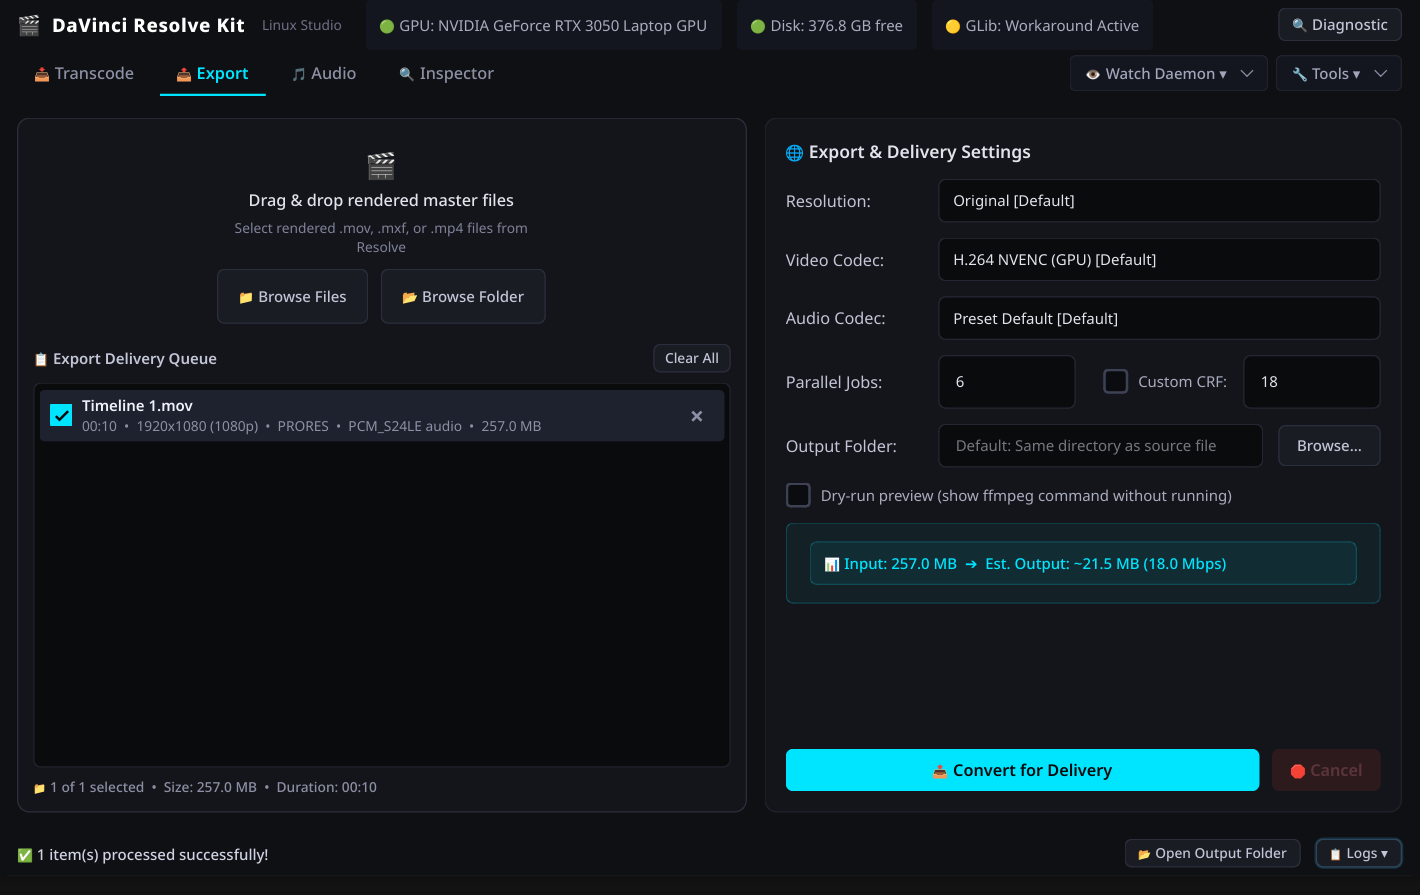
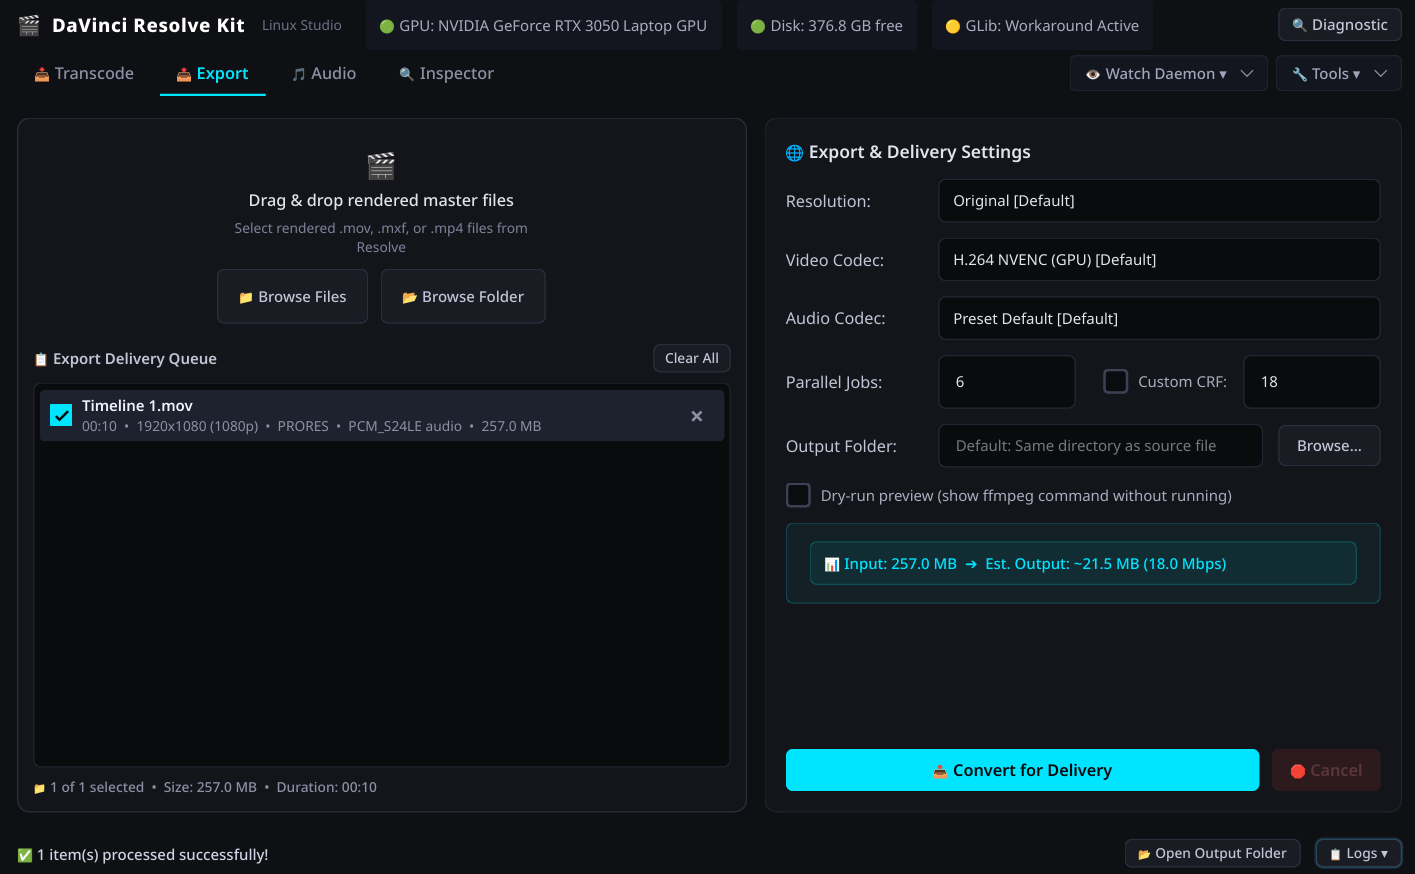
Crop screenshots to identical 1415x874, reduce README display to 700px

diff --git a/README.md b/README.md
@@ -20,11 +20,11 @@ DaVinci Resolve Free on Linux cannot import the most common phone/camera formats
 
 ## Screenshots
 
-![Transcode tab — batch convert footage for Resolve](assets/screenshots/transcode-tab.png)
+<img src="assets/screenshots/transcode-tab.png" width="700" alt="Transcode tab — batch convert footage for Resolve">
 
-![Inspector tab — check file compatibility with Resolve Free on Linux](assets/screenshots/inspector-tab.png)
+<img src="assets/screenshots/inspector-tab.png" width="700" alt="Inspector tab — check file compatibility with Resolve Free on Linux">
 
-![Export tab — convert Resolve renders to delivery formats](assets/screenshots/export-tab.png)
+<img src="assets/screenshots/export-tab.png" width="700" alt="Export tab — convert Resolve renders to delivery formats">
 
 ## Requirements
 
